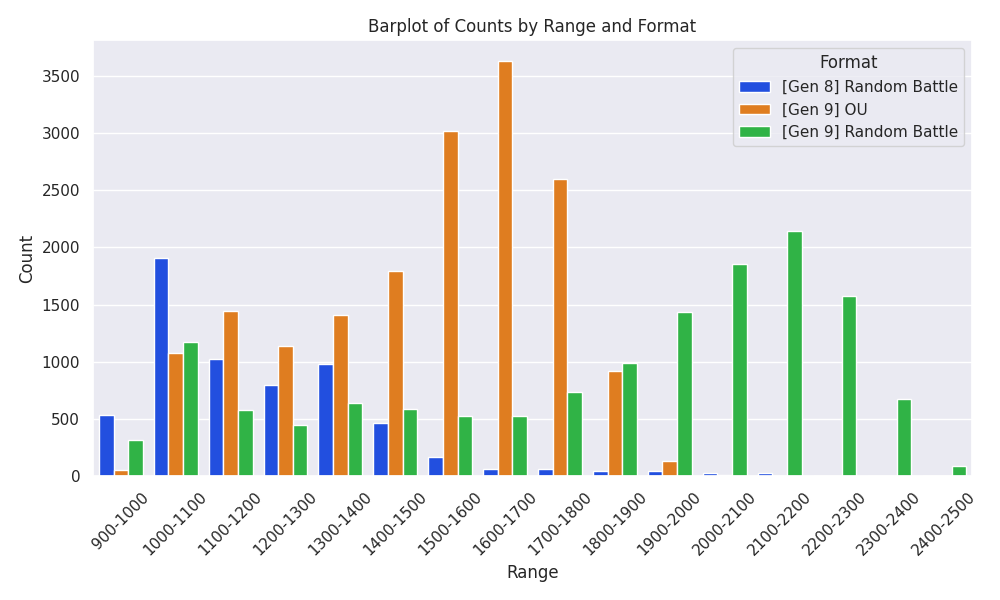
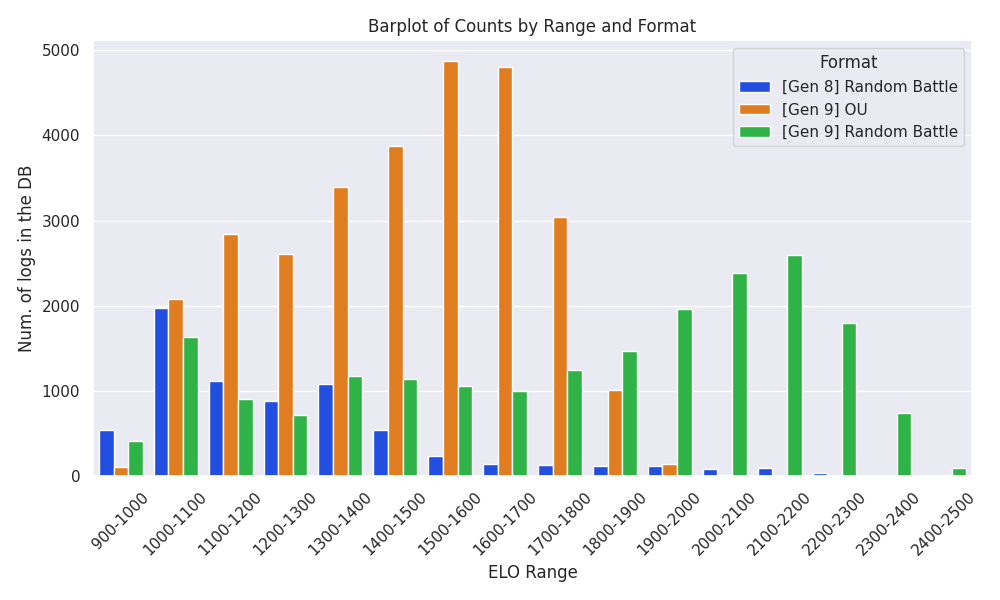
added different sources, fixed errors

diff --git a/scraper.py b/scraper.py
@@ -3,6 +3,7 @@ import json
 import time
 import consts
 import logging
+import random
 import requests
 import functools
 import subprocess
@@ -12,6 +13,9 @@ from consts import to_compact_notation
 from selenium import webdriver
 from selenium.webdriver.common.by import By
 from selenium.webdriver.chrome.options import Options
+from selenium.webdriver.support.ui import WebDriverWait
+from selenium.webdriver.support import expected_conditions as EC
+from selenium.common.exceptions import StaleElementReferenceException
 
 @dataclass(init=True)
 class Replay:
@@ -61,6 +65,9 @@ def scrape_log(id: str, wait: float = .05):
     return response.text  # return the log
 
 
+# --------------------------------------------------
+# Scraping Sources
+# --------------------------------------------------
 @handle_request_exceptions
 def scrape_recents():
     """
@@ -81,6 +88,7 @@ def scrape_recents():
     return replays
 
 
+@handle_request_exceptions
 def scrape_formats():
     for format in consts.FORMATS:
         replays = []
@@ -104,22 +112,6 @@ def scrape_formats():
 
 
 @handle_request_exceptions
-def scrape_ladders_usernames(format: str):
-
-    logger.info(f"Scraping ladder for {format} format")
-    url = f'https://pokemonshowdown.com/ladder/{format}.json'
-
-    response = requests.get(url)
-    response.raise_for_status()
-
-    data = response.json()
-    usernames = [entry['username'] for entry in data['toplist']]
-    logger.info(f"Found {len(usernames)} for {format} format")
-    return usernames
-
-
-
-@handle_request_exceptions
 def scrape_ladders():
     for format in consts.FORMATS:
         replays = []
@@ -138,52 +130,8 @@ def scrape_ladders():
                 replays.append(Replay(d["id"], d["format"], d["rating"]))
 
         logger.info(f"Found {len(replays)} replays with format {format} from ladders")
-        logger.info(f"Total replays found {len(replays)}")
 
     return replays
-
-
-def scrape_members_usernames():
-    os.makedirs("tmp", exist_ok=True)
-    logging.info(f"Checking chrome installed")
-    # if not os.path.exists(f"{os.getcwd()}/tmp/chromedriver"):
-    #     subprocess.run(["curl", "-L", "https://chromedriver.storage.googleapis.com/114.0.5735.90/chromedriver_linux64.zip", "-o", "tmp/chromedriver.zip"])
-    #     subprocess.run(["unzip", "tmp/chromedriver.zip", "-d", "tmp/"])
-
-    if not os.path.exists(f"{os.getcwd()}/tmp/chrome-extracted"):
-        subprocess.run(["wget", "-P", f"{os.getcwd()}/tmp", "https://dl.google.com/linux/direct/google-chrome-stable_current_amd64.deb"])
-        subprocess.run(["dpkg-deb", "-x", f"{os.getcwd()}/tmp/google-chrome-stable_current_amd64.deb", f"{os.getcwd()}/tmp/chrome-extracted/"])
-
-
-    # Set up headless Chrome options
-    chrome_options = Options()
-    chrome_options.binary_location = f"{os.getcwd()}/tmp/chrome-extracted/opt/google/chrome/google-chrome"
-    chrome_options.add_argument(f"--user-data-dir={os.getcwd()}/tmp/chrome-user-data")
-    chrome_options.add_argument("--headless")  # Ensure the browser runs in headless mode
-    chrome_options.add_argument("--no-sandbox")
-    chrome_options.add_argument("--disable-dev-shm-usage")
-    chrome_options.add_argument("--disable-extensions")
-
-    try:
-        # Set up the Chrome driver
-        driver = webdriver.Chrome(options=chrome_options)
-        usernames = []
-        for page in range(1, 10):
-            url = f'https://www.smogon.com/forums/online/?type=member&{page}'
-            driver.get(url)
-            driver.implicitly_wait(2)
-
-            # retrieve all username on the page
-            elements = driver.find_elements(By.CLASS_NAME, 'username')
-            usernames.extend([e.text for e in elements])
-
-        logging.info(f"Found {len(usernames)} online members")
-
-        driver.quit()
-        return usernames
-    except Exception as e:
-        logging.error(f"Error on selenium webdriver: {e}")
-        return []
 
 
 @handle_request_exceptions
@@ -204,7 +152,162 @@ def scrape_members():
                 replays.append(Replay(d["id"], d["format"], d["rating"]))
 
         logger.info(f"Found {len(replays)} replays with format {format} from members")
-        logger.info(f"Total replays found {len(replays)}")
 
     return replays
+
+
+def scrape_roomlst():
+    players = []
+    replays = []
+    room = random.choice(consts.ROOMLIST)
+    logger.info(f"Requesting usernames for room {room}")
+    new_players = scrape_roomlist_usernames(room)
+    players.extend(new_players)
+
+    for format in consts.FORMATS:
+        for player in players:
+            logger.debug(f"Requesting replays with player {player} format {format}")
+            url = f"{URL}/search.json?user={player}&format={format}"
+            response = requests.get(url)
+            response.raise_for_status()
+
+            data = response.json()
+
+            for d in data:
+                replays.append(Replay(d["id"], d["format"], d["rating"]))
+
+        logger.info(f"Found {len(replays)} replays with format {format} from {room}")
+
+    return replays
+
+
+
+
+
+# --------------------------------------------------
+# Username Scrapers
+# --------------------------------------------------
+@handle_request_exceptions
+def scrape_ladders_usernames(format: str):
+
+    logger.info(f"Scraping ladder for {format} format")
+    url = f'https://pokemonshowdown.com/ladder/{format}.json'
+
+    response = requests.get(url)
+    response.raise_for_status()
+
+    data = response.json()
+    usernames = [entry['username'] for entry in data['toplist']]
+    logger.info(f"Found {len(usernames)} for {format} format")
+    return usernames
+
+
+def scrape_members_usernames():
+    os.makedirs("tmp", exist_ok=True)
+    logging.info(f"Checking chrome installed")
+
+    if not os.path.exists(f"{os.getcwd()}/tmp/chrome-extracted"):
+        subprocess.run(["wget", "-P", f"{os.getcwd()}/tmp", "https://dl.google.com/linux/direct/google-chrome-stable_current_amd64.deb"])
+        subprocess.run(["dpkg-deb", "-x", f"{os.getcwd()}/tmp/google-chrome-stable_current_amd64.deb", f"{os.getcwd()}/tmp/chrome-extracted/"])
+
+    # Set up headless Chrome options
+    chrome_options = Options()
+    chrome_options.binary_location = f"{os.getcwd()}/tmp/chrome-extracted/opt/google/chrome/google-chrome"
+    #chrome_options.add_argument(f"--user-data-dir={os.getcwd()}/tmp/chrome-user-data")
+    chrome_options.add_argument("--headless")  # Ensure the browser runs in headless mode
+    chrome_options.add_argument("--no-sandbox")
+    chrome_options.add_argument("--disable-dev-shm-usage")
+    chrome_options.add_argument("--disable-extensions")
+
+    try:
+        # Set up the Chrome browser
+        driver = webdriver.Chrome(options=chrome_options)
+        usernames = []
+        for page in range(1, 10):
+            retries = consts.RETRIES
+            for retry in range(retries):
+                try:
+                    url = f'https://www.smogon.com/forums/online/?type=member&{page}'
+                    driver.get(url)
+                    driver.implicitly_wait(2)
+
+                    # retrieve all username on the page
+                    wait = WebDriverWait(driver, random.uniform(5, 10))  # Explicit wait
+                    elements = wait.until(EC.presence_of_all_elements_located((By.CLASS_NAME, 'username')))
+                    usernames.extend([e.text for e in elements])
+                except StaleElementReferenceException as s:
+                    logging.error(f"Retry {retry} Error {s}")
+                    time.sleep(1)  # Short wait before retrying
+
+        logging.info(f"Found {len(usernames)} online members")
+
+        driver.quit()
+        return usernames
+    except Exception as e:
+        logging.error(f"Error on selenium webdriver: {e}")
+        return []
+
+
+def scrape_roomlist_usernames(room_name: str = "lobby"):
+    os.makedirs("tmp", exist_ok=True)
+    logging.info("Checking if Chrome is installed")
+
+    # Install Chrome if not available
+    if not os.path.exists(f"{os.getcwd()}/tmp/chrome-extracted"):
+        subprocess.run(["wget", "-P", f"{os.getcwd()}/tmp", "https://dl.google.com/linux/direct/google-chrome-stable_current_amd64.deb"])
+        subprocess.run(["dpkg-deb", "-x", f"{os.getcwd()}/tmp/google-chrome-stable_current_amd64.deb", f"{os.getcwd()}/tmp/chrome-extracted/"])
+
+    # Set up headless Chrome options
+    chrome_options = Options()
+    chrome_options.binary_location = f"{os.getcwd()}/tmp/chrome-extracted/opt/google/chrome/google-chrome"
+    #chrome_options.add_argument(f"--user-data-dir={os.getcwd()}/tmp/chrome-user-data")
+    chrome_options.add_argument("--headless")  # Runs Chrome in headless mode
+    chrome_options.add_argument("--no-sandbox")
+    chrome_options.add_argument("--disable-dev-shm-usage")
+    chrome_options.add_argument("--disable-extensions")
+
+    usernames = []
+    try:
+        driver = webdriver.Chrome(options=chrome_options)
+        driver.get("https://play.pokemonshowdown.com/")
+        wait = WebDriverWait(driver, random.uniform(10, 15))  # Explicit wait
+        wait.until(EC.presence_of_element_located((By.TAG_NAME, "body"))) # Ensure the page loads
+        logging.info("Pokémon Showdown page loaded successfully.")
+
+    except Exception as e:
+        logging.error(f"Error with Selenium WebDriver: {e}")
+        return []
+
+    try:
+        lobby_link = wait.until(EC.presence_of_element_located((By.XPATH, f"//div[@class='roomlist']//a[@href='/{room_name}'][contains(@class, 'blocklink')]")))
+        #time.sleep(1.45)
+        driver.execute_script("arguments[0].click();", lobby_link)
+        logging.info(f"Clicked {room_name} link")
+
+    except Exception as e:
+        logging.warning(f"{room_name} link not found or already open: {e}")
+
+    try:
+        # find all <li> elements containing the buttons with usernames and return them
+        wait.until(EC.presence_of_all_elements_located((By.XPATH, '//li/button[@class="userbutton username"]')))
+        retries = consts.RETRIES
+        for retry in range(retries):
+            try:
+                list_items = driver.find_elements(By.XPATH, '//li/button[@class="userbutton username"]')
+                usernames = [item.get_attribute("data-name") for item in list_items]
+                logging.info(f"Found {len(usernames)} users in the {room_name}")
+                return usernames
+            except StaleElementReferenceException as s:
+                logging.error(f"Retry {retry} Error {s}")
+                time.sleep(1)  # Short wait before retrying
+        return []
+
+    except Exception as e:
+        logging.error(f"Error finding user list: {e}")
+
+    driver.quit()
+    return usernames
+
+
+
 

diff --git a/cron.py b/cron.py
@@ -7,7 +7,7 @@ import schedule
 import threading
 
 from dataclasses import dataclass
-from scraper import scrape_recents, scrape_formats, scrape_ladders, scrape_members, scrape_log
+from scraper import scrape_log, scrape_recents, scrape_formats, scrape_ladders, scrape_members, scrape_roomlst
 from db import DB
 
 
@@ -15,9 +15,10 @@ from db import DB
 class Wait:
     addlogs: int = 10 # seconds
     recents: int = 60 # seconds
-    formats: int = 3600 # seconds
-    ladders: int = 3600 # seconds
-    members: int = 600 # seconds
+    formats: int = 1800 # seconds
+    ladders: int = 1800 # seconds
+    members: int = 700 # seconds
+    roomlst: int = 600 # seconds
 
 
 @dataclass
@@ -76,12 +77,21 @@ def _scrape_members():
         replays.extend(new_replays)
 
 
+def _scrape_roomlst():
+    logger.info(f"Starting job in thread: {threading.current_thread().name}")
+    new_replays = scrape_roomlst()
+    with replays_lock:
+        replays.extend(new_replays)
+
+
 def add_logs():
-    while replays:
+    while True:
         with replays_lock:
+            if not replays:
+                return
             r = replays.pop()
-            if not db.exists(r.id):
-                db.add(r.id, r.format, r.rating, scrape_log(r.id))
+        if not db.exists(r.id):
+            db.add(r.id, r.format, r.rating, scrape_log(r.id))
 
 
 def run_threaded(job_func):
@@ -94,12 +104,15 @@ run_threaded(_scrape_recents)
 run_threaded(_scrape_formats)
 run_threaded(_scrape_ladders)
 run_threaded(_scrape_members)
+run_threaded(_scrape_roomlst)
+
 
 schedule.every(args.wait.addlogs).seconds.do(run_threaded, add_logs)
 schedule.every(args.wait.recents).seconds.do(run_threaded, _scrape_recents)
 schedule.every(args.wait.formats).seconds.do(run_threaded, _scrape_formats)
 schedule.every(args.wait.ladders).seconds.do(run_threaded, _scrape_ladders)
 schedule.every(args.wait.members).seconds.do(run_threaded, _scrape_members)
+schedule.every(args.wait.roomlst).seconds.do(run_threaded, _scrape_roomlst)
 
 
 if __name__ == "__main__":

diff --git a/stats.py b/stats.py
@@ -44,7 +44,7 @@ def plot_samples_per_format(dir="imgs/", min_samples: int = 200):
     plt.figure(figsize=(10, 5))
     ax = sns.barplot(x="Format", y="Count", data=df)
     ax.bar_label(ax.containers[0], fontsize=7)
-    plt.xlabel("Format")
+    plt.xlabel("Battle Format")
     plt.ylabel("Num. of logs in the DB")
     plt.xticks(rotation=90, fontsize=10)
     plt.tight_layout()
@@ -65,6 +65,8 @@ def plot_elo_per_format():
     sns.barplot(x="Range", y="Count", hue="Format", data=df)
     plt.xticks(rotation=45)
     plt.title("Barplot of Counts by Range and Format")
+    plt.xlabel("ELO Range")
+    plt.ylabel("Num. of logs in the DB")
     plt.tight_layout()
     plt.savefig(os.path.join("imgs/", "elo_per_format"))
 

diff --git a/logger.py b/logger.py
@@ -5,7 +5,8 @@ def setup(level: int = logging.INFO):
     """Set up the root logger"""
     logging.basicConfig(
         level=level,  # log messages with severity INFO and above
-        format="%(asctime)s - %(name)s - %(funcName)s - %(threadName)s - %(process)d - %(levelname)s - %(message)s",
+        format="%(asctime)s - %(name)s.%(funcName)s - %(threadName)s - %(levelname)s - %(message)s",
+        datefmt='%Y-%m-%d %H:%M:%S',
         handlers=[logging.StreamHandler(), logging.FileHandler("app.log")],
     )
     logger = logging.getLogger()  # get the root logger

diff --git a/consts.py b/consts.py
@@ -4,7 +4,18 @@ FORMATS = [
     "[Gen 8] Random Battle",
     "[Gen 9] OU",
     "[Gen 9] Random Battle",
+    #"[Gen 8] OU",
 ]
+
+ROOMLIST = [
+    "lobby",
+    "tournaments",
+    "overused",
+    "randombattles",
+    "help"
+]
+
+RETRIES = 5
 
 # TODO: make it generic for every format
 def to_compact_notation(bracket_format):
